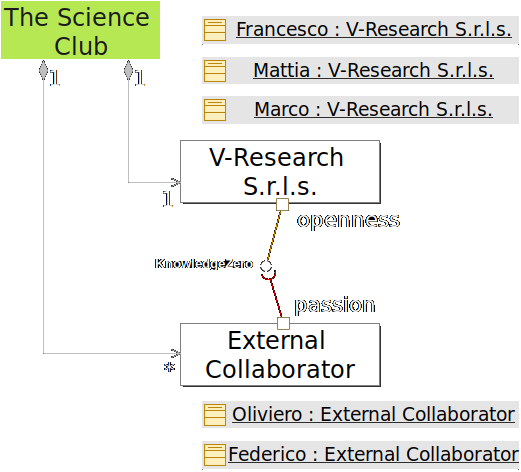
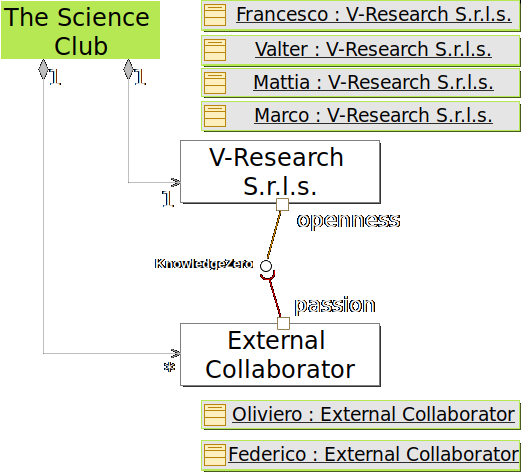
add valter to the team

diff --git a/team.md b/team.md
@@ -57,6 +57,47 @@ layout: default
   </div>
 </div>
 
+<!-- Valter -->
+<div class="row team-people">
+  <div class="col-12 col-sm-3">
+    <img src="images/valter.jpg">
+  </div>
+  <div class="col-12 col-sm-9 profile-name-margin">
+    <h3 class="orange">
+	Valter Carturo
+    </h3>
+    <p class="text-margin">
+    text here
+    </p>
+    <a href="" data-toggle="modal" data-target="#modalVal">
+      Read more
+    </a>
+  </div>
+</div>
+
+<!-- Modal -->
+<div class="modal fade" id="modalVal" tabindex="-1" role="dialog" aria-labelledby="exampleModalCenterTitle" aria-hidden="true">
+  <div class="modal-dialog modal-dialog-centered" role="document">
+    <div class="modal-content modal-bio">
+      <div class="modal-header">
+        <h2 class="modal-title orange">
+	Valter Carturo
+        </h2>
+        <button type="button" class="close modal-close" data-dismiss="modal" aria-label="Close">
+          <span aria-hidden="true">&times;</span>
+        </button>
+      </div>
+      <div class="modal-body">
+	text here
+        <br><br>
+        <a href="https://www.linkedin.com/in/valter-carturo-5394752/" target="blank">
+          <i class="fab fa-linkedin fa-lg social-icon"></i>
+        </a>
+      </div>
+    </div>
+  </div>
+</div>
+
 <!-- Federico -->
 <div class="row team-people">
   <div class="col-12 col-sm-3">
